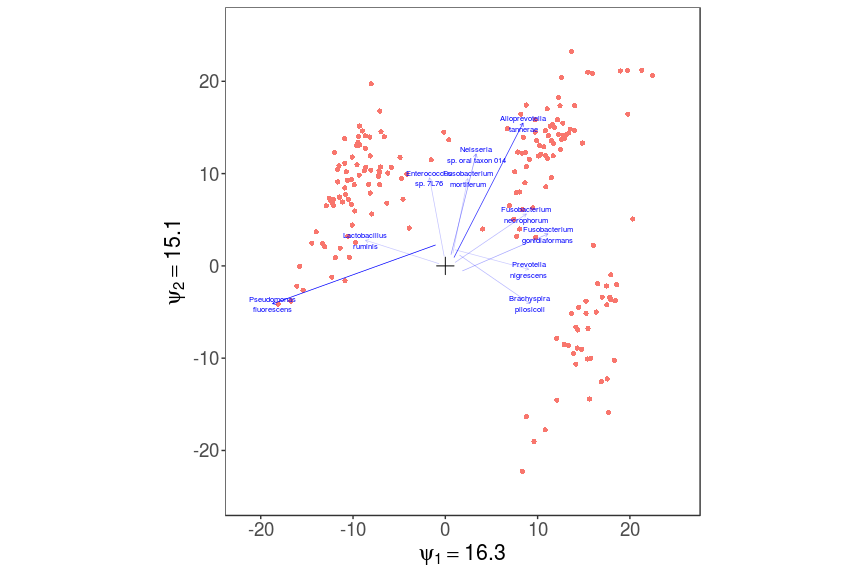
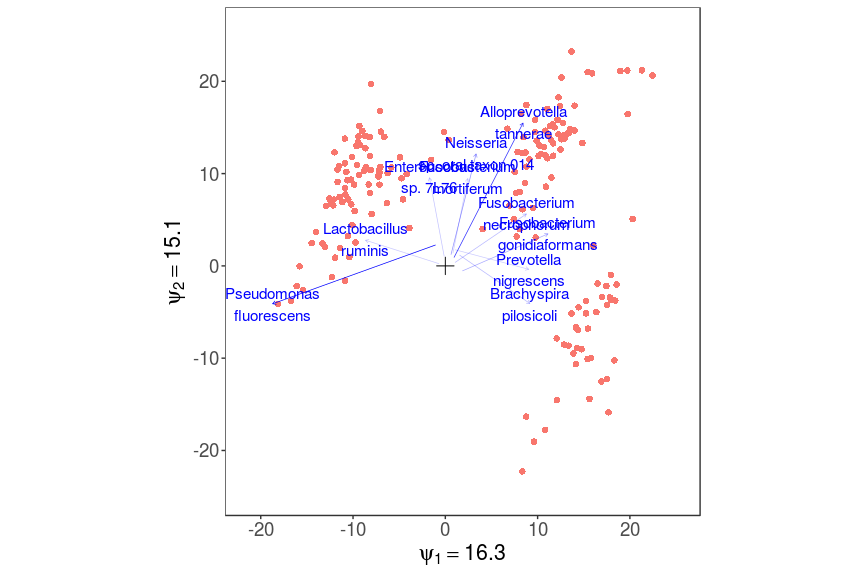
Larger label sizes in the readME

diff --git a/README.md b/README.md
@@ -31,7 +31,7 @@ library(phyloseq)
 data(Zeller)
 ```
 
-The *Zeller* object is a phyloseq object, which contains all the information of a microbiome experiment. The *RCM* package is tailor-made for phyloseq objects. We therefore strongly recommend biulding a phyloseq object out of your data, and feeding that object into the *RCM()* function. More information on building the phyloseq object can be found [here](http://joey711.github.io/phyloseq/import-data.html).
+The *Zeller* object is a phyloseq object, which contains all the information of a microbiome experiment. The *RCM* package is tailor-made for phyloseq objects. We therefore strongly recommend building a phyloseq object out of your data, and feeding that object into the *RCM()* function. More information on building the phyloseq object can be found [here](http://joey711.github.io/phyloseq/import-data.html).
 
 Unconstrained RCM
 -----------------
@@ -60,7 +60,7 @@ Samples are represented by dots, taxa by arrows. Both represent vectors with the
 
 Valid interpretatations are the following:
 
--   Samples (endpoints of sample vectors, the red dots) close together depart from independence in a similar way
+-   Samples (endpoints of sample vectors, the red dots) close together have a similar taxon composition
 -   Taxa are more abundant than average in samples to which their arrows point, and less abundant when their arrows point away from the samples. For example Fusobacterium mortiferum is more abundant than average in samples on the left side of the plot, and more abundant in samples on the right side.
 -   The importance parameters *ψ* shown for every axis reflect the relative importance of the dimensions
 
